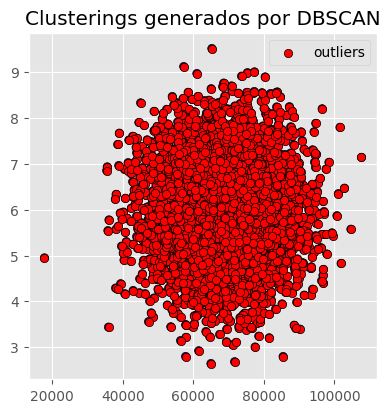
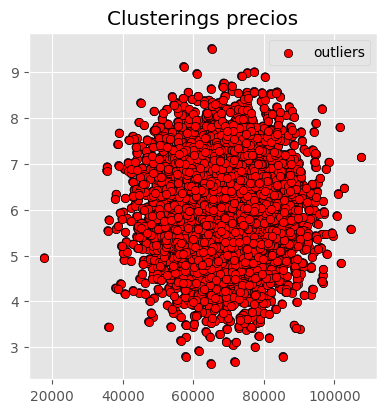
clustering

diff --git a/Clases/ejercicio.py b/Clases/ejercicio.py
@@ -192,7 +192,7 @@ class Clustering:
     def __init__(self,datos):
         self.datos = pd.read_csv(datos)
         self.datos.pop("Address")
-    def cluster(self):
+    def cluster_precio(self):
         # Escalado de datos
         # ==============================================================================
         X = self.datos.drop(columns='Price').to_numpy()
@@ -233,66 +233,104 @@ class Clustering:
         )
 
         ax.legend()
-        ax.set_title('Clusterings generados por DBSCAN');
+        ax.set_title('Clusterings precios');
         plt.savefig('Graficos/clustering_precio.png', bbox_inches='tight')
-
         plt.show()
+        
+    def cluster_ingresos(self):
+            # Escalado de datos
+            # ==============================================================================
+            X = self.datos.drop(columns='Avg. Area Income').to_numpy()
+            X_scaled = scale(X)
+            
+            # Modelo
+            # ==============================================================================
+            modelo_dbscan = DBSCAN(
+                                eps          = 0.2,
+                                min_samples  = 5,
+                                metric       = 'euclidean',
+                            )
+
+            modelo_dbscan.fit(X=X_scaled)
+
+            # Clasificación
+            # ==============================================================================
+            labels = modelo_dbscan.labels_
+
+            fig, ax = plt.subplots(1, 1, figsize=(4.5, 4.5))
+
+            ax.scatter(
+                x = X[:, 0],
+                y = X[:, 1], 
+                c = labels,
+                marker    = 'o',
+                edgecolor = 'black'
+            )
+
+            # Los outliers se identifican con el label -1
+            ax.scatter(
+                x = X[labels == -1, 0],
+                y = X[labels == -1, 1], 
+                c = 'red',
+                marker    = 'o',
+                edgecolor = 'black',
+                label = 'outliers'
+            )
+
+            ax.legend()
+            ax.set_title('Clusterings ingresos');
+            plt.savefig('Graficos/clustering_ingresos.png', bbox_inches='tight')
+            plt.show()
+            
+    def cluster_edad(self):
+            # Escalado de datos
+            # ==============================================================================
+            X = self.datos.drop(columns='Avg. Area House Age').to_numpy()
+            X_scaled = scale(X)
+            
+            # Modelo
+            # ==============================================================================
+            modelo_dbscan = DBSCAN(
+                                eps          = 0.2,
+                                min_samples  = 5,
+                                metric       = 'euclidean',
+                            )
+
+            modelo_dbscan.fit(X=X_scaled)
+
+            # Clasificación
+            # ==============================================================================
+            labels = modelo_dbscan.labels_
+
+            fig, ax = plt.subplots(1, 1, figsize=(4.5, 4.5))
+
+            ax.scatter(
+                x = X[:, 0],
+                y = X[:, 1], 
+                c = labels,
+                marker    = 'o',
+                edgecolor = 'black'
+            )
+
+            # Los outliers se identifican con el label -1
+            ax.scatter(
+                x = X[labels == -1, 0],
+                y = X[labels == -1, 1], 
+                c = 'red',
+                marker    = 'o',
+                edgecolor = 'black',
+                label = 'outliers'
+            )
+
+            ax.legend()
+            ax.set_title('Clusterings edad');
+            plt.savefig('Graficos/clustering_edad.png', bbox_inches='tight')
+            plt.show()
         
 hola5 = Clustering("USA_Housing.csv")
-print(hola5.cluster())
+print(hola5.cluster_edad())
+print(hola5.cluster_ingresos())
+print(hola5.cluster_precio())
 
  
  
-# Importamos las librerias necesarias
-import pandas as pd 
-import matplotlib.pyplot as plt 
-import seaborn as sns 
-import plotly as py
-import plotly.io as pio
-import plotly.express as px
-from sklearn.cluster import KMeans
-from sklearn import preprocessing
-from yellowbrick.cluster import KElbowVisualizer
-import warnings
-warnings.filterwarnings("ignore")
-py.offline.init_notebook_mode(connected = True)
-pio.renderers.default='browser'
-class Clustering2:
-    def __init__(self,datos):
-        self.datos = pd.read_csv(datos)
-        self.datos.pop("Address")
-    def clus2(self):
-        df = pd.read_csv('USA_Housing.csv')
-        print('Dimensiones del df:', df.shape)
-        #____________________________________________________________
-        # Vamos a sacar informacion sobre los tipos y nulos del df
-        df.drop_duplicates(inplace = True)
-        tab_info=pd.DataFrame(df.dtypes).T.rename(index={0:'tipo de la columna'})
-        tab_info=tab_info.append(pd.DataFrame(df.isnull().sum()).T.rename(index={0:'campos nulos (cant)'}))
-        tab_info=tab_info.append(pd.DataFrame(df.isnull().sum()/df.shape[0]*100).T.
-                                rename(index={0:'campos nulos (%)'}))
-        display(tab_info)
-        #__________________
-        #
-        display(df[:5])
-        df['Price'] = pd.get_dummies(df['Price']).values[:,0]
-        plt.style.use('fivethirtyeight')
-        plt.figure(1 , figsize = (15 , 6))
-        n = 0 
-        for x in ['Price' , 'Avg. Area Income' , 'Avg. Area House Age']:
-            n += 1
-            plt.subplot(1 , 3 , n)
-            plt.subplots_adjust(hspace =0.5 , wspace = 0.5)
-            sns.distplot(df[x] , bins = 20)
-            plt.title('Distplot of {}'.format(x))
-        X = df.copy()
-        X.drop(labels=['Price'], axis=1, inplace=True)
-        X1 = preprocessing.normalize(X)
-        model = KMeans()
-        visualizer = KElbowVisualizer(model, k=(1,12))
-        visualizer.fit(X1)        # Entrenamos con los datos
-        visualizer.show()        # Renderizamos la imagen
-        plt.show()
-        
-hola5 = Clustering2("USA_Housing.csv")
-print(hola5.clus2())      
